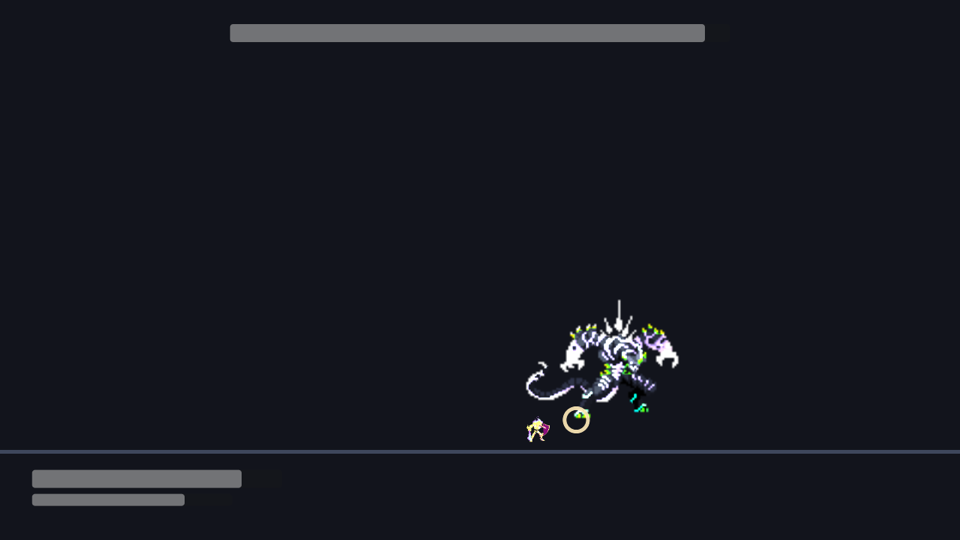
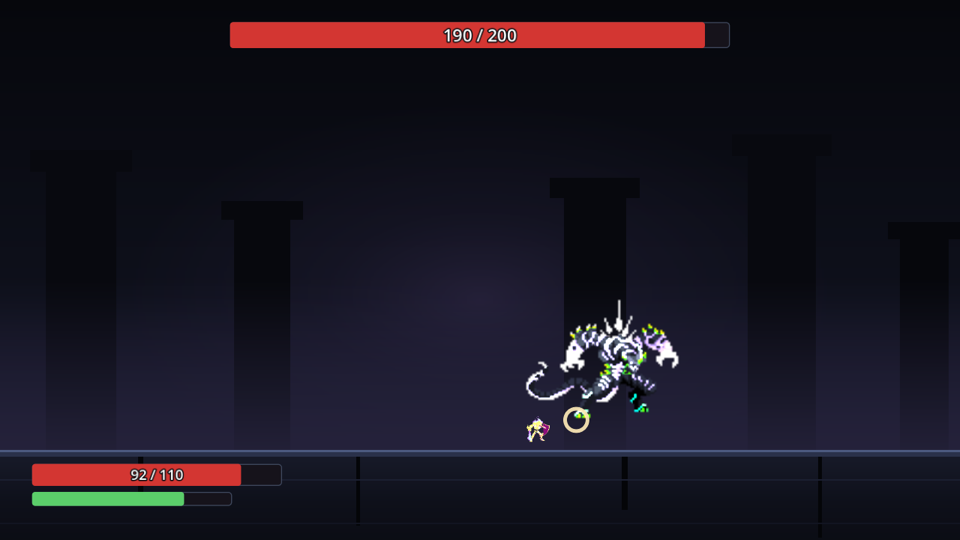
README — 개발 중임을 맨 위에서 말하고, 스크린샷을 새 화면으로
릴리즈 링크가 맨 위에 있어 완성된 것처럼 읽혔다. 맨 위는 이제 "무엇이 되고 무엇이 안 되나" 이고,
그중 안 되는 첫 줄이 **딥러닝 패턴 선택** — 이 저장소의 목적 그 자체다. 링크는 그 아래로 내렸다.

스크린샷도 갈았다. 걸려 있던 것은 회색 바 시절의 그림이었고, 파일 이름이 battle-3.png 처럼
옛 이름이라 **이미 깨져 있었다** (지금 찍히는 것은 battle-3-dash-tail.png 다).
규칙 테스트 건수도 156 → 159 로 맞춘다.

Changed region(s): [[0.0, 0.5333, 1.0, 0.9481], [0.2188, 0.0296, 0.75, 0.0889]]

diff --git a/README.md b/README.md
@@ -3,18 +3,32 @@
 **보스 하나를 다섯 번 잡는 2D 가로 소울라이크.** 단계를 넘을 때마다 보스가 쓰는 패턴이 늘고,
 그 패턴은 **이 플레이어가 지금까지 어떻게 피했는지에 따라 정해진다.**
 
-> **플레이 가능한 빌드가 있다** — [Releases](https://github.com/Atralupus/OVERFIT/releases/latest) 에서 macOS 판을 받는다.
-> 개발 중인 프로토타입이다. 서명하지 않은 빌드라 처음 열 때 우클릭 → 열기 가 필요하다.
+> ## 🚧 아직 만드는 중이다
+>
+> **완성된 게임이 아니라 개발 중인 프로토타입이다.** 전투 한 판은 처음부터 끝까지 돌아가지만,
+> 이 프로젝트의 핵심인 **"보스가 당신에게 맞춰진다" 는 아직 없다** — 패턴은 지금 무작위로 고른다
+> ([왜 일부러 무작위인지](#그래서-지금-패턴-선택이-무작위다)).
+>
+> | 되는 것 | 아직 안 되는 것 |
+> |---|---|
+> | 대시 · 점프 · 패리 · 공격, 보스 패턴 6종, 히트 판정 | **딥러닝 패턴 선택** — 이 저장소의 목적 그 자체 |
+> | 승패 · 결과 화면 · 5단계 진행 | 캐릭터 3택 · 스탯 강화 (이슈 #22 로 뺐다) |
+> | 회피 계측 10축, 헤드리스 전투 · 리플레이 골든 | 사운드 · 음악 |
+> | macOS 빌드 | 윈도우 · 리눅스 빌드 |
+>
+> 지금 시점의 빌드는 [Releases](https://github.com/Atralupus/OVERFIT/releases/latest) 에 있다.
+> 서명하지 않은 빌드라 처음 열 때 우클릭 → 열기 가 필요하다.
 
 | | |
 |---|---|
-| <img src="docs/shots/title.png" width="420"> | <img src="docs/shots/battle-3.png" width="420"> |
-| **타이틀** — 조작 안내는 `InputMap` 에서 뽑는다 | **전투** — 보스가 패턴을 도는 동안 붉게 물든다 |
-| <img src="docs/shots/battle-1.png" width="420"> | <img src="docs/shots/battle-5.png" width="420"> |
-| 보스가 다가온다 | 몸이 겹치지 않는다 — 그래서 거리가 축이 된다 |
+| <img src="docs/shots/title.png" width="420"> | <img src="docs/shots/battle-1-approach.png" width="420"> |
+| **타이틀** — 조작 안내는 `InputMap` 에서 뽑는다 | **전투** — 체력은 빨강 · 스태미나는 초록, 보스 체력은 숫자로도 읽힌다 |
+| <img src="docs/shots/battle-4-parry.png" width="420"> | <img src="docs/shots/battle-6-windup.png" width="420"> |
+| **패리** — 청록 링이 열려 있는 동안만 받아친다 | **보스 선딜** — 붉은 링이 조여 들면 판정이 온다 |
 
-> 그림체가 섞여 있고 연출이 없는 것은 프로토타입이기 때문이다. 스프라이트는 CC0 인 것을 모아 쓰고 있고,
-> 대시·패리 전용 애니메이션이 없어 색과 투명도로 대신한다.
+> 스프라이트는 CC0 인 것을 모아 쓰고 배경은 직접 그린다 — 에셋을 하나 더 들일 때마다
+> [`overfit/assets/LICENSES.md`](overfit/assets/LICENSES.md) 가 길어지고, 그 기록이 라이선스 주장의 전부다.
+> 대시·패리 전용 애니메이션이 팩에 없어 그 둘은 이펙트(잔상 · 링 · 히트스톱)로 만든다.
 
 ---
 
@@ -142,7 +156,7 @@
 |---|---|
 | 엔진 | Godot 4.7.2 (Mono / C#) · `forward_plus` · net8.0 · **데스크톱 전용** |
 | 화면 | 가로 1920×1080 |
-| 규칙 테스트 | Godot 없이 `tools/build.sh test` — **156건**, 0.3초 |
+| 규칙 테스트 | Godot 없이 `tools/build.sh test` — **159건**, 0.3초 |
 | 에셋 | [Duelyst](https://github.com/Jordyfel/duelyst-animated-sprites-godot) (**CC0 1.0**) — 유닛 696종 · 보스 50종 |
 
 ---
